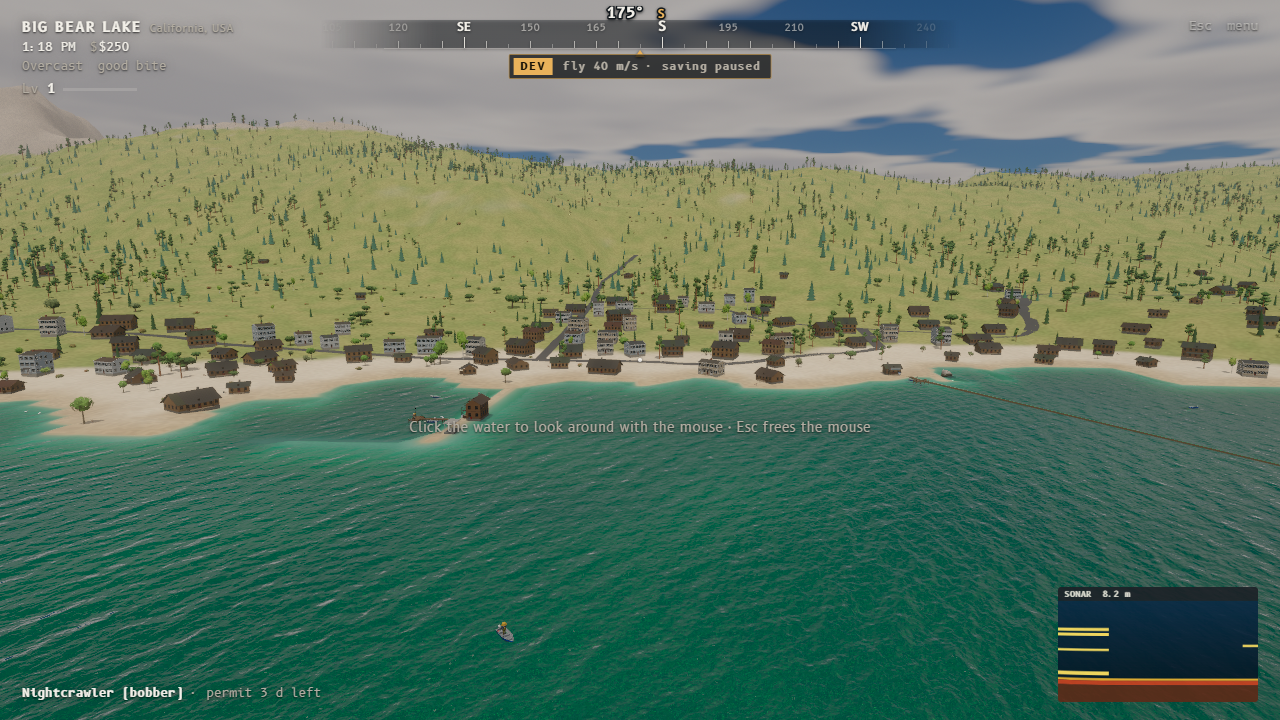
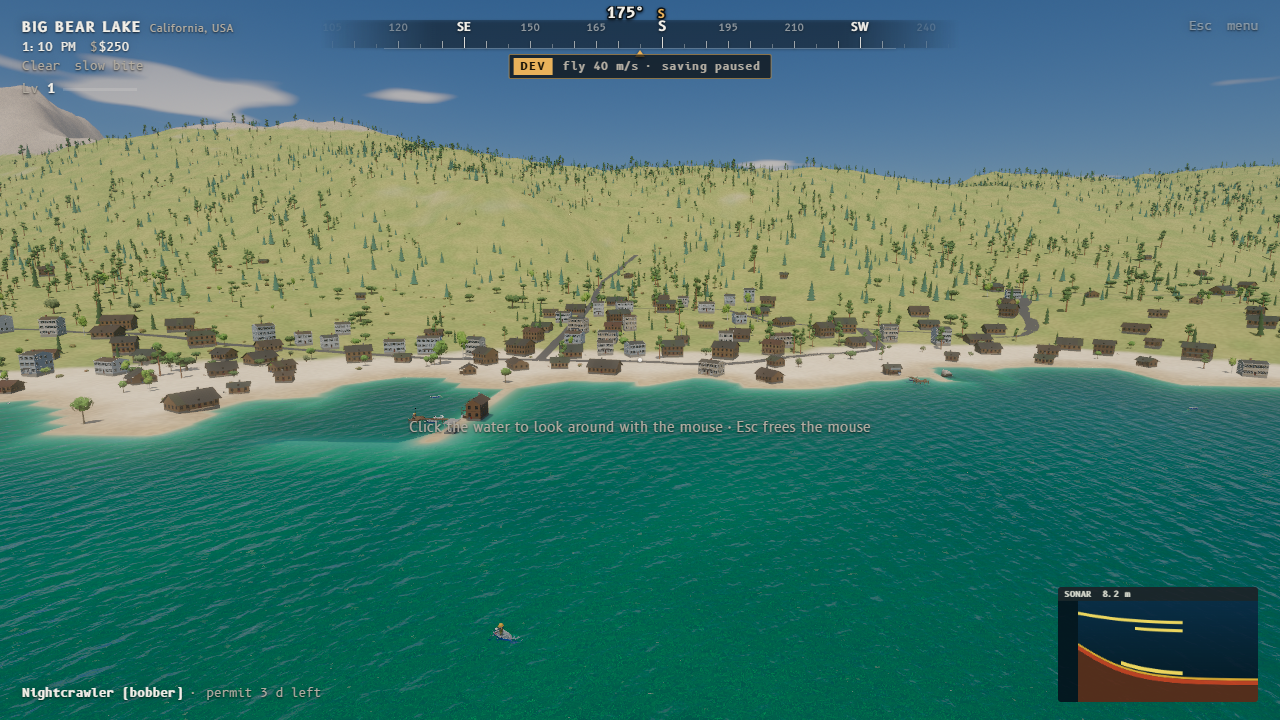
fix(shorelife): moored boats' mooring ropes no longer draw a line to the world origin when out of range

diff --git a/src/game/shorelife.js b/src/game/shorelife.js
@@ -318,7 +318,7 @@ export class ShoreLife {
           const a = d.toWorld(u + du * 0.6, side * 0.92), c = d.toWorld(u + du, v - side * beam * 0.45);
           const dx = c.x - p.x, dz = c.z - p.z, cy = Math.cos(yaw), sy = Math.sin(yaw);
           const lx = dx * cy - dz * sy, lz = dx * sy + dz * cy;
-          const rope = new THREE.Line(new THREE.BufferGeometry().setFromPoints([new THREE.Vector3(a.x, d.deck - 0.02, a.z), new THREE.Vector3(), new THREE.Vector3()]), new THREE.LineBasicMaterial({ color: 0xb8a888 }));
+          const rope = new THREE.Line(new THREE.BufferGeometry().setFromPoints([new THREE.Vector3(a.x, d.deck - 0.02, a.z), new THREE.Vector3(a.x, d.deck - 0.02, a.z), new THREE.Vector3(a.x, d.deck - 0.02, a.z)]), new THREE.LineBasicMaterial({ color: 0xb8a888 }));
           rope.frustumCulled = false;
           this.group.add(rope);
           (b.ropes ||= []).push({ rope, a: new THREE.Vector3(a.x, d.deck - 0.02, a.z), local: new THREE.Vector3(lx, deckHeight(id, lx) + 0.12, lz) });
@@ -420,6 +420,7 @@ export class ShoreLife {
       const want = b.yaw + (b.anchor ? Math.sin(t * 0.17 + b.phase) * 0.18 : 0);
       let diff = want - b.pb.heading(); diff = Math.atan2(Math.sin(diff), Math.cos(diff));
       body.angVel.y += (diff * 2 - body.angVel.y) * Math.min(1, dt * 4);
+      if (b.ropes) for (const q of b.ropes) q.rope.visible = d < 200;   // far ropes are never updated: hide them rather than draw them to the origin
       if (b.ropes && d < 200) for (const q of b.ropes) {
         const pos = q.rope.geometry.attributes.position;
         _B.copy(q.local).applyQuaternion(body.quat).add(body.pos);
